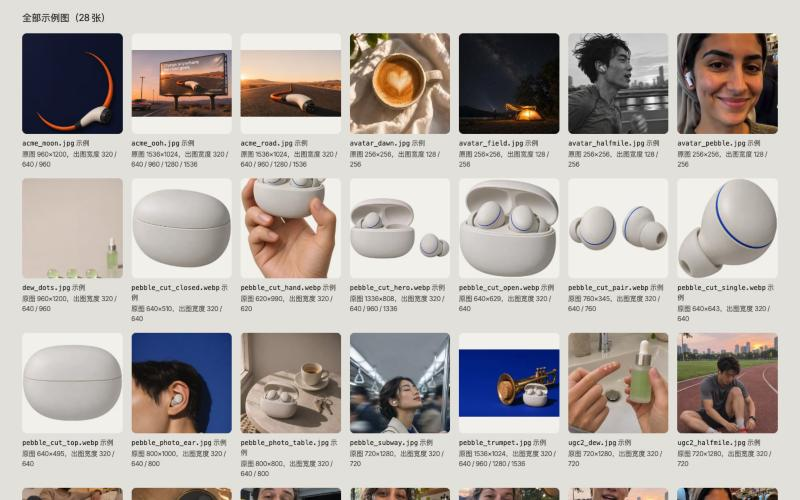
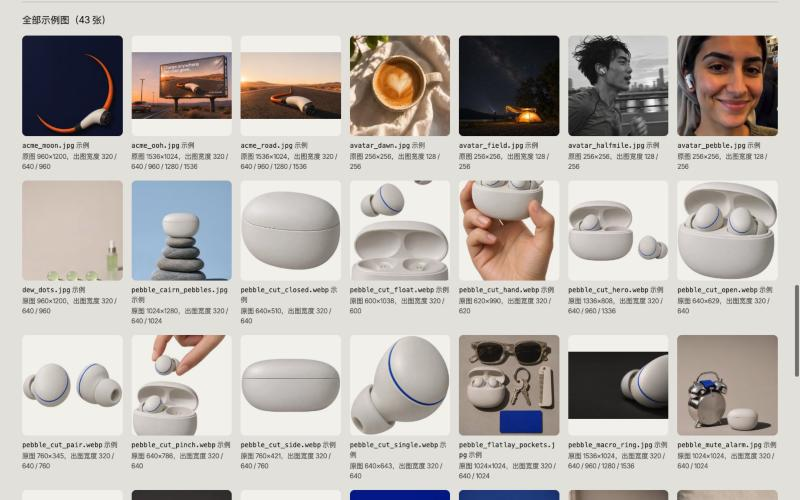
P-05: 按新的图片清单走，usedIn 为空的图不进站点
设计侧重做版本墙之后，design/assets/manifest.json 里的图从 28 张变成 44 张。

- 站点只拷清单里有屏在用的素材（usedIn 不为空）：43 张图和 2 个视频。
  清单的规则是「usedIn 为空的图现在没有任何一屏在用，不用进线上」，
  所以 pebble_cut_top.webp 从 src/assets/img/ 去掉，构建产物里也就没有它。
- catalog 的测试跟着改：src/assets/ 里正好是有屏在用的那些文件；
  usedIn 为空的不在站点里，按文件名取会报错。
- docs/media.md：新增「哪些素材进站点」，同步步骤按新的 src/wall/ 改。
- 陈列页的截图重拍：新的版本墙、43 张示例图、手机宽度。

Refs #16

diff --git a/src/media/catalog.test.ts b/src/media/catalog.test.ts
@@ -3,7 +3,8 @@ import manifest from '../../design/assets/manifest.json';
 import { exampleImage, exampleImageFiles, exampleVideoUrl } from './catalog';
 
 // 站点自己的一份在 src/assets/，从设计交接包 design/assets/ 原样拷来。
-// 设计侧换了图或加了图，这里的测试会挂，按 docs/media.md 重新拷一份。
+// 设计侧换了图、加了图，或者改了哪张图有没有屏在用，这里的测试会挂，
+// 按 docs/media.md 重新拷一份。
 // ?inline 让 Vite 把文件读成 base64，不用 Node 的文件接口也能逐字节比较。
 
 const siteFiles = import.meta.glob<string>('../assets/{img,video}/*', {
@@ -17,6 +18,13 @@ const designFiles = import.meta.glob<string>(
 
 // 清单里的 file 是相对 design/assets/ 的路径，例如 img/pebble_cut_open.webp
 const listed = manifest.assets.map((asset) => asset.file).sort();
+// 清单的规则：usedIn 为空的图现在没有任何一屏在用，不进线上。
+// 站点只拷有屏在用的那些；没人用的留在交接包里。
+const inUse = manifest.assets
+  .filter((asset) => asset.usedIn.length > 0)
+  .map((asset) => asset.file)
+  .sort();
+const unused = listed.filter((file) => !inUse.includes(file));
 const site = Object.keys(siteFiles)
   .map((path) => path.replace('../assets/', ''))
   .sort();
@@ -29,14 +37,24 @@ describe('示例素材：站点自己的一份和交接包一致', () => {
     expect(design).toEqual(listed);
   });
 
-  it('src/assets/ 里正好是清单里的那些文件，没有别的', () => {
-    expect(site).toEqual(listed);
+  it('src/assets/ 里正好是清单里有屏在用的那些文件，没有别的', () => {
+    expect(site).toEqual(inUse);
     expect(exampleImageFiles.map((file) => `img/${file}`)).toEqual(
-      listed.filter((file) => file.startsWith('img/')),
+      inUse.filter((file) => file.startsWith('img/')),
     );
   });
 
-  it.each(listed)('%s 和交接包里的同名文件逐字节一致', async (file) => {
+  it('现在有 43 张图和 2 个视频在用', () => {
+    expect(inUse.filter((file) => file.startsWith('img/'))).toHaveLength(43);
+    expect(inUse.filter((file) => file.startsWith('video/'))).toHaveLength(2);
+  });
+
+  it.each(unused)('%s 没有任何一屏在用（usedIn 为空），不进站点', (file) => {
+    expect(site).not.toContain(file);
+    expect(() => exampleImage(file.replace('img/', ''))).toThrow(/缺示例图/);
+  });
+
+  it.each(inUse)('%s 和交接包里的同名文件逐字节一致', async (file) => {
     const ours = await siteFiles[`../assets/${file}`]?.();
     const theirs = await designFiles[`../../design/assets/${file}`]?.();
 
@@ -46,14 +64,15 @@ describe('示例素材：站点自己的一份和交接包一致', () => {
 });
 
 describe('按文件名取素材', () => {
-  it.each(manifest.assets.filter((asset) => asset.file.startsWith('img/')))(
-    '$file 的宽高和清单一致',
-    (asset) => {
-      const image = exampleImage(asset.file.replace('img/', ''));
+  it.each(
+    manifest.assets.filter(
+      (asset) => asset.file.startsWith('img/') && asset.usedIn.length > 0,
+    ),
+  )('$file 的宽高和清单一致', (asset) => {
+    const image = exampleImage(asset.file.replace('img/', ''));
 
-      expect([image.width, image.height]).toEqual([asset.width, asset.height]);
-    },
-  );
+    expect([image.width, image.height]).toEqual([asset.width, asset.height]);
+  });
 
   it('视频能换成站点上的地址', () => {
     for (const file of ['creator-pebble.webm', 'creator-pebble.mp4']) {

diff --git a/src/media/picture.test.ts b/src/media/picture.test.ts
@@ -23,7 +23,7 @@ function candidates(srcset: string) {
 
 describe('每张示例图都转成 AVIF 和 WebP，每种都有多个尺寸', () => {
   it('图片目录里有图', () => {
-    expect(exampleImageFiles.length).toBe(28);
+    expect(exampleImageFiles.length).toBe(43);
   });
 
   it.each(exampleImageFiles)('%s', async (file) => {

diff --git a/docs/media.md b/docs/media.md
@@ -4,19 +4,27 @@
 
 ## 文件
 
-| 路径                              | 内容                                                                                          |
-| :-------------------------------- | :-------------------------------------------------------------------------------------------- |
-| `src/assets/img/`                 | 28 张示例图，从 `design/assets/img/` 原样拷来，逐字节一致（测试守着）。站点构建不读 `design/` |
-| `src/assets/video/`               | 达人示例视频的 webm 和 mp4，从 `design/assets/video/` 原样拷来                                |
-| `src/media/catalog.ts`            | 按文件名取图片（宽高、格式）和视频地址                                                        |
-| `src/media/responsive.ts`         | 每张图出哪几种宽度、显示多大、`sizes` 怎么写                                                  |
-| `src/media/picture.ts`            | 构建时出图（AVIF 和 WebP、多尺寸），拼 `<picture>`。版本墙和组件都走这里                      |
-| `src/media/ExampleImage.astro`    | 示例图组件                                                                                    |
-| `src/media/ExampleVideo.astro`    | 示例视频组件，带播放规则和退路                                                                |
-| `src/media/hero.ts`               | 首屏叠板上的三张图和它们的显示大小，和 `design/screens/01-hero.html` 对照                     |
-| `src/media/budget.ts`             | 首屏图片体积上限，以及检查构建产物里图片的规则                                                |
-| `src/media/integration.ts`        | 构建检查：`astro build` 写完 `dist/` 后跑，不合格就让构建失败                                 |
-| `src/pages/media.astro`（/media） | 示例素材陈列页：每张图、版本墙、视频都摆在上面，给开发和设计核对。不进导航，不让搜索引擎收录  |
+| 路径                              | 内容                                                                                                                           |
+| :-------------------------------- | :----------------------------------------------------------------------------------------------------------------------------- |
+| `src/assets/img/`                 | 43 张示例图：图片清单里有屏在用的那些，从 `design/assets/img/` 原样拷来，逐字节一致（测试守着）。站点构建不读 `design/` 里的图 |
+| `src/assets/video/`               | 达人示例视频的 webm 和 mp4，从 `design/assets/video/` 原样拷来                                                                 |
+| `src/media/catalog.ts`            | 按文件名取图片（宽高、格式）和视频地址                                                                                         |
+| `src/media/responsive.ts`         | 每张图出哪几种宽度、显示多大、`sizes` 怎么写                                                                                   |
+| `src/media/picture.ts`            | 构建时出图（AVIF 和 WebP、多尺寸），拼 `<picture>`。版本墙和组件都走这里                                                       |
+| `src/media/ExampleImage.astro`    | 示例图组件                                                                                                                     |
+| `src/media/ExampleVideo.astro`    | 示例视频组件，带播放规则和退路                                                                                                 |
+| `src/media/hero.ts`               | 首屏叠板上的三张图和它们的显示大小，和 `design/screens/01-hero.html` 对照                                                      |
+| `src/media/budget.ts`             | 首屏图片体积上限，以及检查构建产物里图片的规则                                                                                 |
+| `src/media/integration.ts`        | 构建检查：`astro build` 写完 `dist/` 后跑，不合格就让构建失败                                                                  |
+| `src/pages/media.astro`（/media） | 示例素材陈列页：每张图、版本墙、视频都摆在上面，给开发和设计核对。不进导航，不让搜索引擎收录                                   |
+
+## 哪些素材进站点
+
+以 `design/assets/manifest.json` 为准，测试会比对：
+
+- **`usedIn` 不为空的才进站点。** 清单的规则是「`usedIn` 为空的图现在没有任何一屏在用，不用进线上」。这样的图不拷进 `src/assets/`，构建产物里也就没有它。现在清单里有 44 张图，43 张在用；没人用的一张是 `pebble_cut_top.webp`。
+- `src/assets/` 里不能有清单以外的文件。
+- 达人素材（`kind` 是 `creator-…`）只能出现在达人屏和产品页的达人列表里；版本墙的测试会拦住它们进墙。
 
 ## 图片
 
@@ -105,8 +113,8 @@ import ExampleVideo from '../media/ExampleVideo.astro';
 
 图片或视频换了、加了，`npm run test` 里逐字节对照的测试会挂。按下面的顺序同步：
 
-1. 把 `design/assets/img/`、`design/assets/video/` 里变了的文件拷到 `src/assets/img/`、`src/assets/video/`。
-2. 版本墙用的图换了，同步 `src/wall/config.ts`（见 `docs/version-wall.md`）；首屏叠板的图换了，同步 `src/media/hero.ts`。
+1. 对照 `design/assets/manifest.json`：把变了的、新加的文件从 `design/assets/img/`、`design/assets/video/` 拷到 `src/assets/img/`、`src/assets/video/`。只拷 `usedIn` 不为空的；`usedIn` 变成空的，从 `src/assets/` 里删掉。
+2. 版本墙直接读 `design/wall/tiles.json`，墙里用到的图只要在 `src/assets/img/` 里就行（见 `docs/version-wall.md`）；首屏叠板的图换了，同步 `src/media/hero.ts`。
 3. 跑 `npm run verify`：测试、首屏体积上限和图片管线检查都过了才算同步完。
 
 不改 `design/`。交接包里的图有问题，在 Issue 里报。
